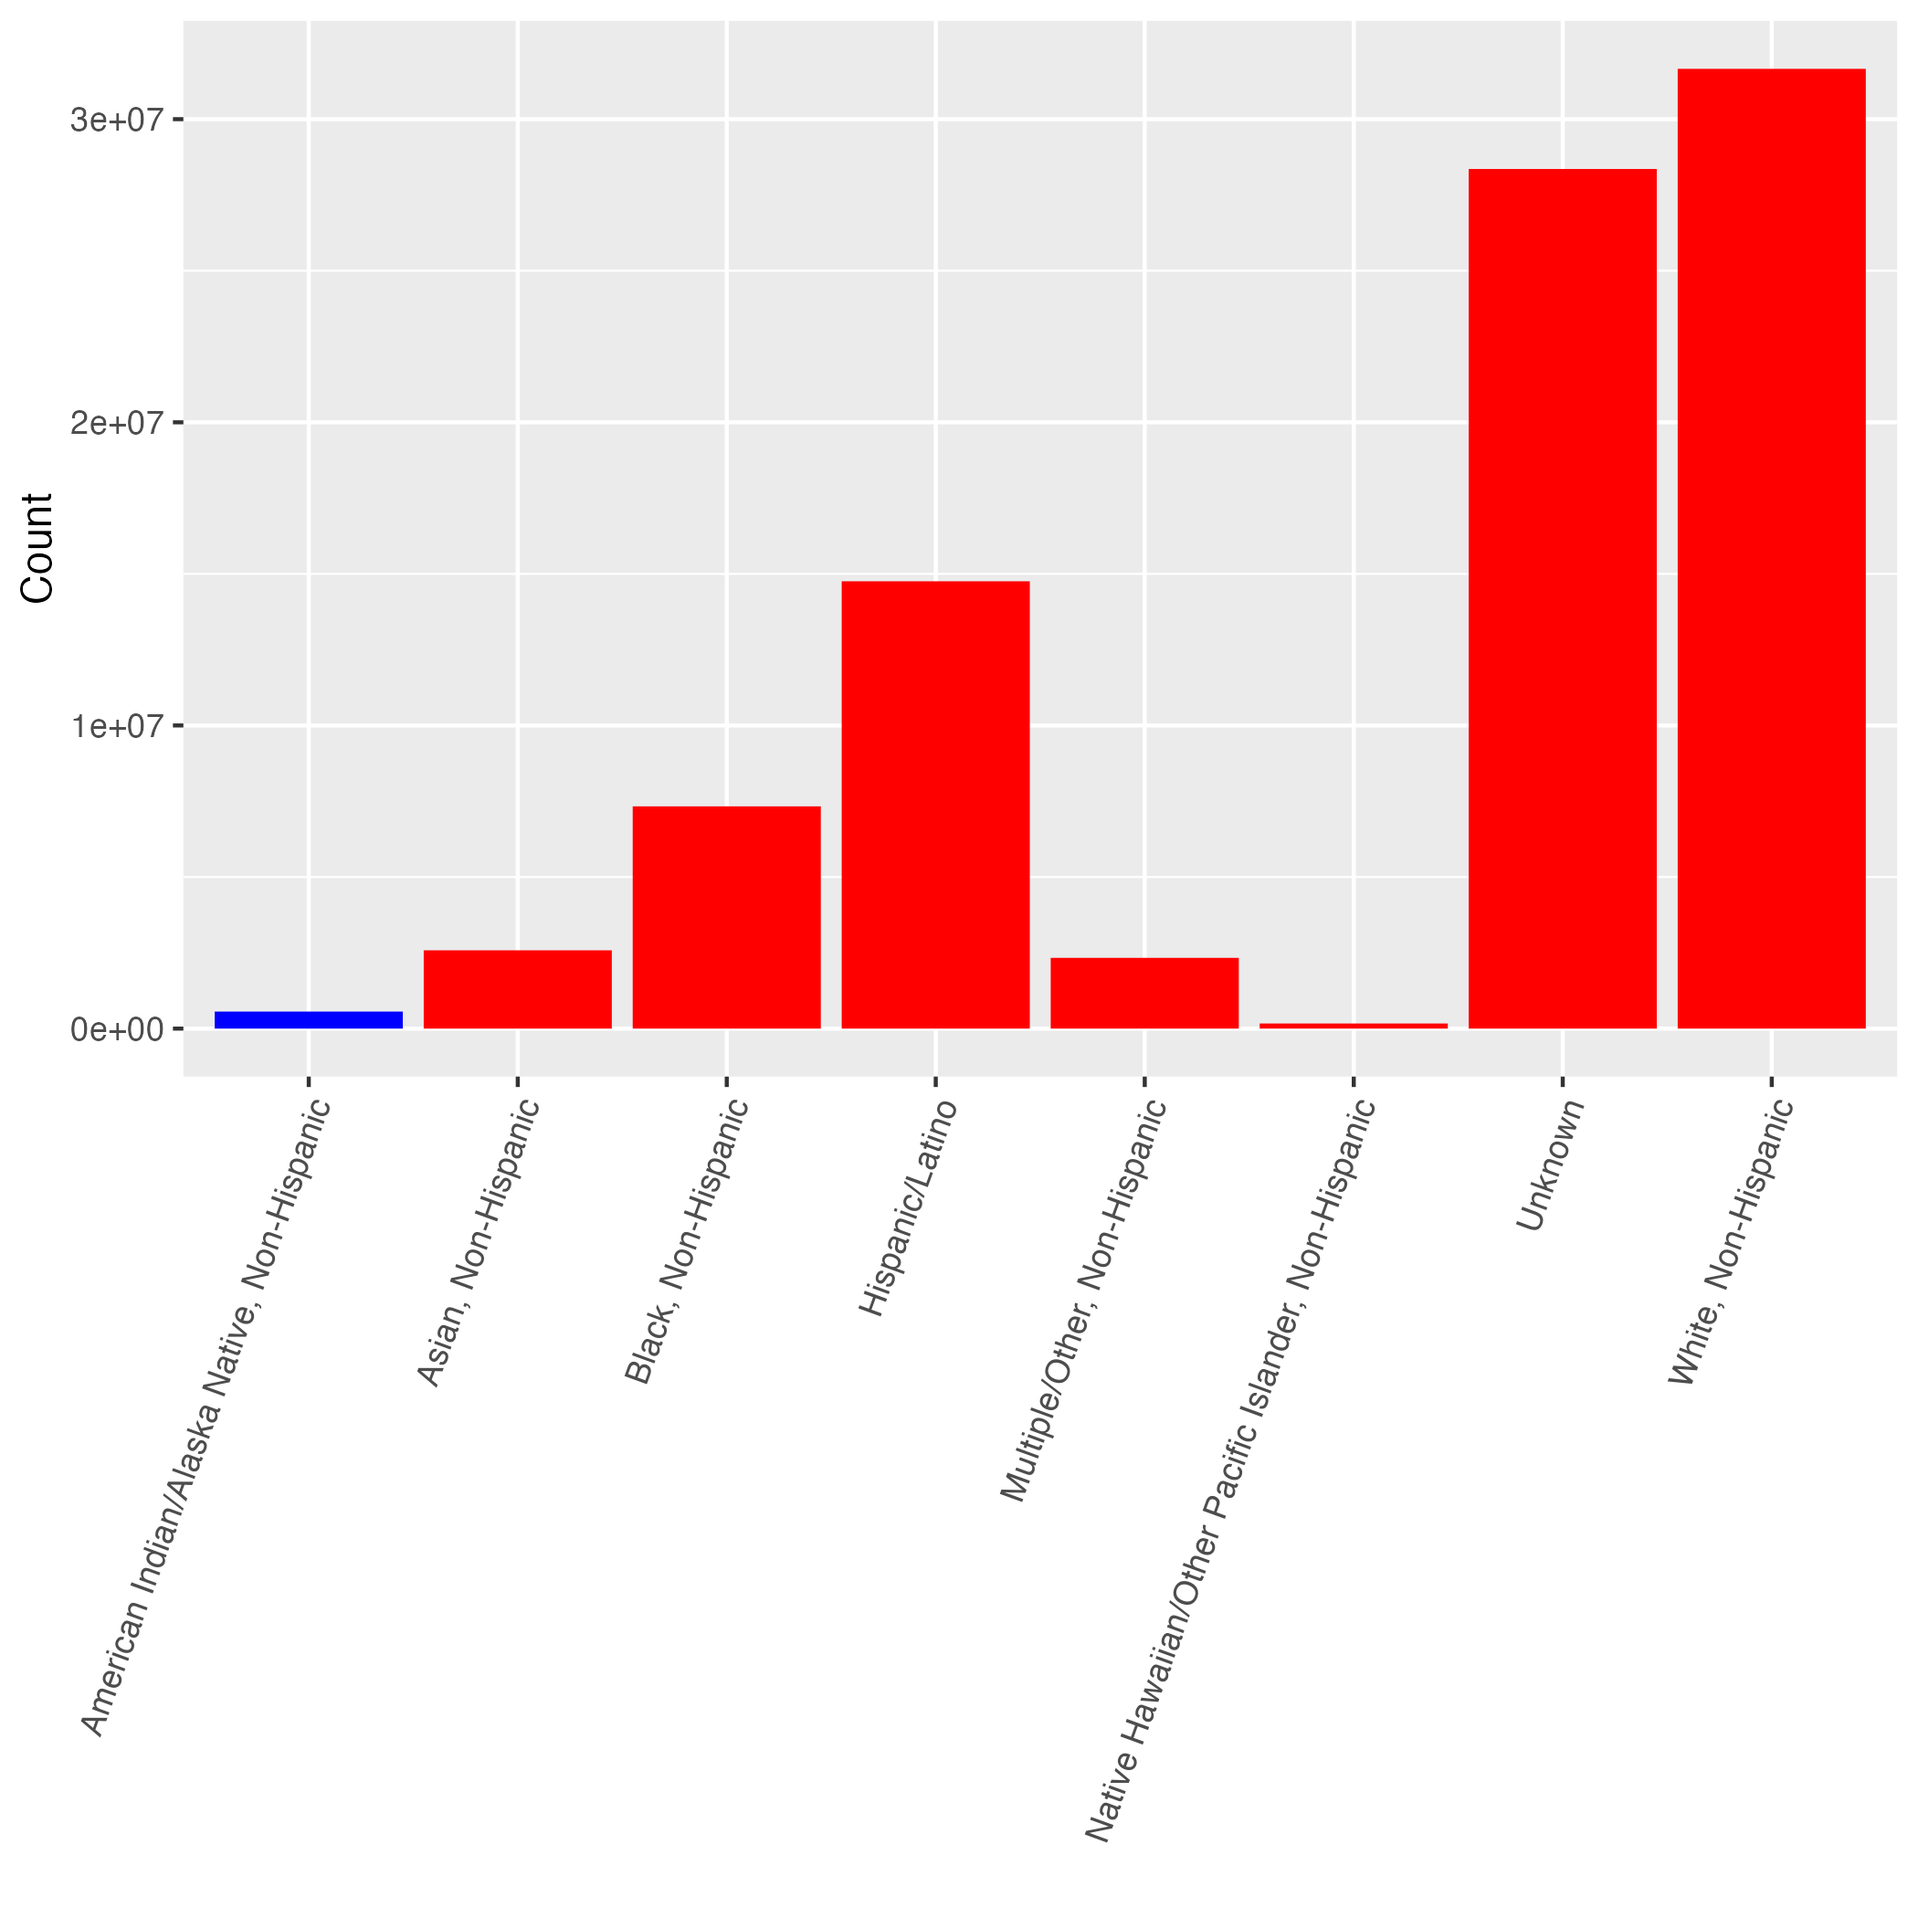
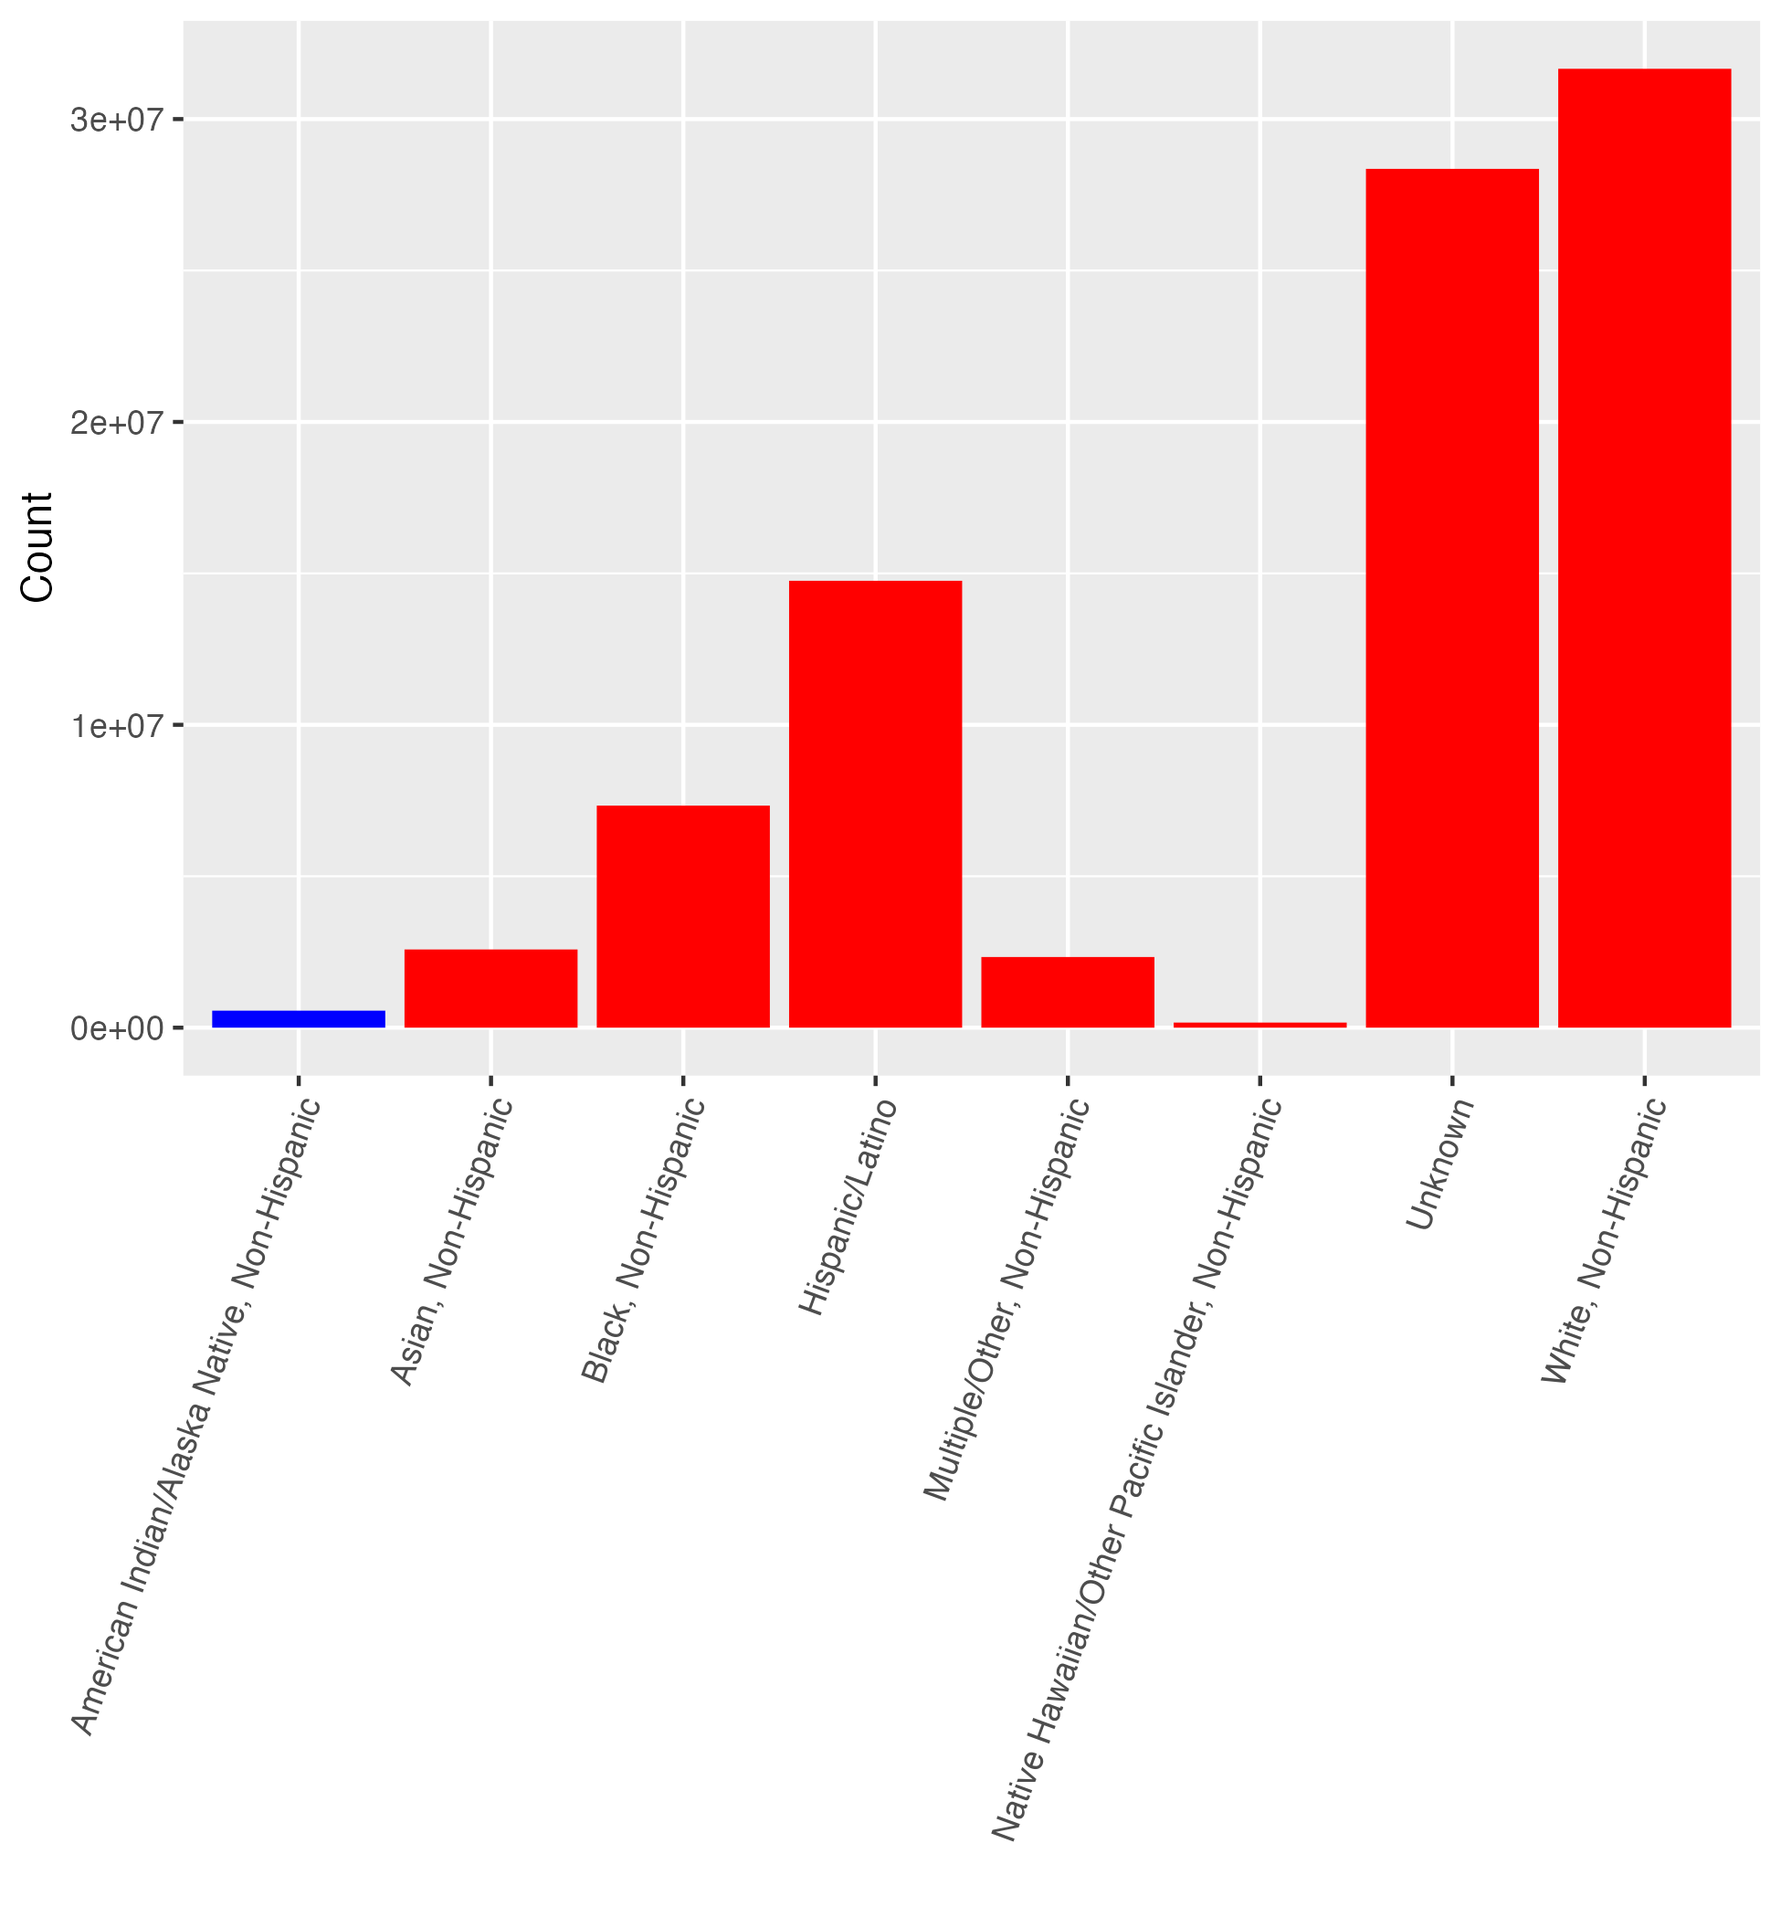
with csv

diff --git a/index.html b/index.html
@@ -1540,7 +1540,11 @@ Due to the systematic poor health system for Native Americans in the United Stat
 </div>
 <div class="layout-chunk" data-layout="l-body">
 <div class="sourceCode">
-<pre class="sourceCode r"><code class="sourceCode r"><span><span class='va'>viz1</span> <span class='op'>&lt;-</span> <span class='va'>count_race</span> <span class='op'><a href='https://magrittr.tidyverse.org/reference/pipe.html'>%&gt;%</a></span></span>
+<pre class="sourceCode r"><code class="sourceCode r"><span><span class='kw'><a href='https://rdrr.io/r/base/library.html'>library</a></span><span class='op'>(</span><span class='va'><a href='https://tidyverse.tidyverse.org'>tidyverse</a></span><span class='op'>)</span></span>
+<span></span>
+<span><span class='va'>count_race</span> <span class='op'>&lt;-</span> <span class='fu'><a href='https://readr.tidyverse.org/reference/read_delim.html'>read_csv</a></span><span class='op'>(</span><span class='st'>'covid_by_race.csv'</span><span class='op'>)</span></span>
+<span></span>
+<span><span class='va'>viz1</span> <span class='op'>&lt;-</span> <span class='va'>count_race</span> <span class='op'><a href='https://magrittr.tidyverse.org/reference/pipe.html'>%&gt;%</a></span></span>
 <span>  <span class='fu'><a href='https://dplyr.tidyverse.org/reference/filter.html'>filter</a></span><span class='op'>(</span><span class='va'>race_ethnicity_combined</span> <span class='op'>!=</span> <span class='st'>"Missing"</span><span class='op'>)</span> <span class='op'><a href='https://magrittr.tidyverse.org/reference/pipe.html'>%&gt;%</a></span></span>
 <span>  <span class='fu'><a href='https://dplyr.tidyverse.org/reference/filter.html'>filter</a></span><span class='op'>(</span><span class='op'>!</span><span class='fu'><a href='https://rdrr.io/r/base/NA.html'>is.na</a></span><span class='op'>(</span><span class='va'>race_ethnicity_combined</span><span class='op'>)</span><span class='op'>)</span> <span class='op'><a href='https://magrittr.tidyverse.org/reference/pipe.html'>%&gt;%</a></span></span>
 <span>  <span class='fu'><a href='https://dplyr.tidyverse.org/reference/mutate.html'>mutate</a></span><span class='op'>(</span>fill_col <span class='op'>=</span> <span class='fu'><a href='https://rdrr.io/r/base/ifelse.html'>ifelse</a></span><span class='op'>(</span><span class='va'>race_ethnicity_combined</span> <span class='op'>==</span> <span class='st'>"American Indian/Alaska Native, Non-Hispanic"</span>, <span class='st'>"A"</span>, <span class='st'>"B"</span><span class='op'>)</span><span class='op'>)</span> <span class='op'><a href='https://magrittr.tidyverse.org/reference/pipe.html'>%&gt;%</a></span></span>
@@ -1551,11 +1555,13 @@ Due to the systematic poor health system for Native Americans in the United Stat
 <span>  <span class='fu'><a href='https://ggplot2.tidyverse.org/reference/scale_manual.html'>scale_fill_manual</a></span><span class='op'>(</span>values <span class='op'>=</span> <span class='fu'><a href='https://rdrr.io/r/base/c.html'>c</a></span><span class='op'>(</span><span class='st'>'#0000FF'</span>, <span class='st'>'#FF0000'</span><span class='op'>)</span><span class='op'>)</span> <span class='op'>+</span></span>
 <span>  <span class='fu'><a href='https://ggplot2.tidyverse.org/reference/theme.html'>theme</a></span><span class='op'>(</span>legend.position <span class='op'>=</span> <span class='st'>'none'</span><span class='op'>)</span></span>
 <span></span>
-<span><span class='fu'><a href='https://ggplot2.tidyverse.org/reference/ggsave.html'>ggsave</a></span><span class='op'>(</span><span class='st'>'viz1.png'</span>, plot <span class='op'>=</span> <span class='va'>viz1</span><span class='op'>)</span></span>
-<span></span>
-<span><span class='fu'><a href='https://rdrr.io/r/grDevices/png.html'>png</a></span><span class='op'>(</span>filename <span class='op'>=</span> <span class='st'>'viz1.png'</span><span class='op'>)</span></span></code></pre>
+<span><span class='fu'><a href='https://ggplot2.tidyverse.org/reference/ggsave.html'>ggsave</a></span><span class='op'>(</span><span class='st'>'viz1.png'</span>, plot <span class='op'>=</span> <span class='va'>viz1</span><span class='op'>)</span></span></code></pre>
 </div>
 </div>
+<figure>
+<img src="viz1.png" alt="Visualization 1" />
+<figcaption aria-hidden="true">Visualization 1</figcaption>
+</figure>
 <div class="sourceCode" id="cb1"><pre class="sourceCode r distill-force-highlighting-css"><code class="sourceCode r"></code></pre></div>
 <!--radix_placeholder_article_footer-->
 <!--/radix_placeholder_article_footer-->
